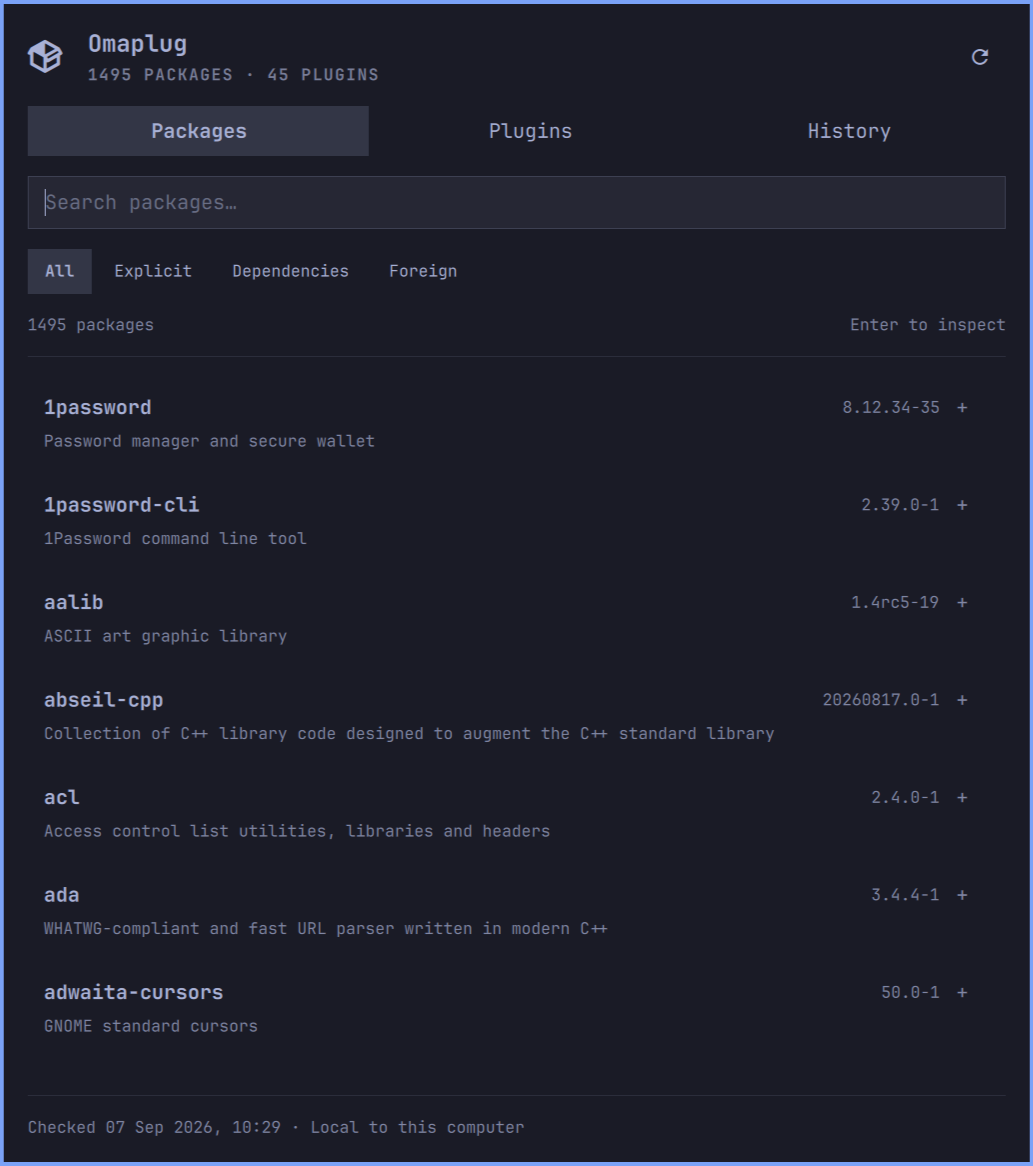
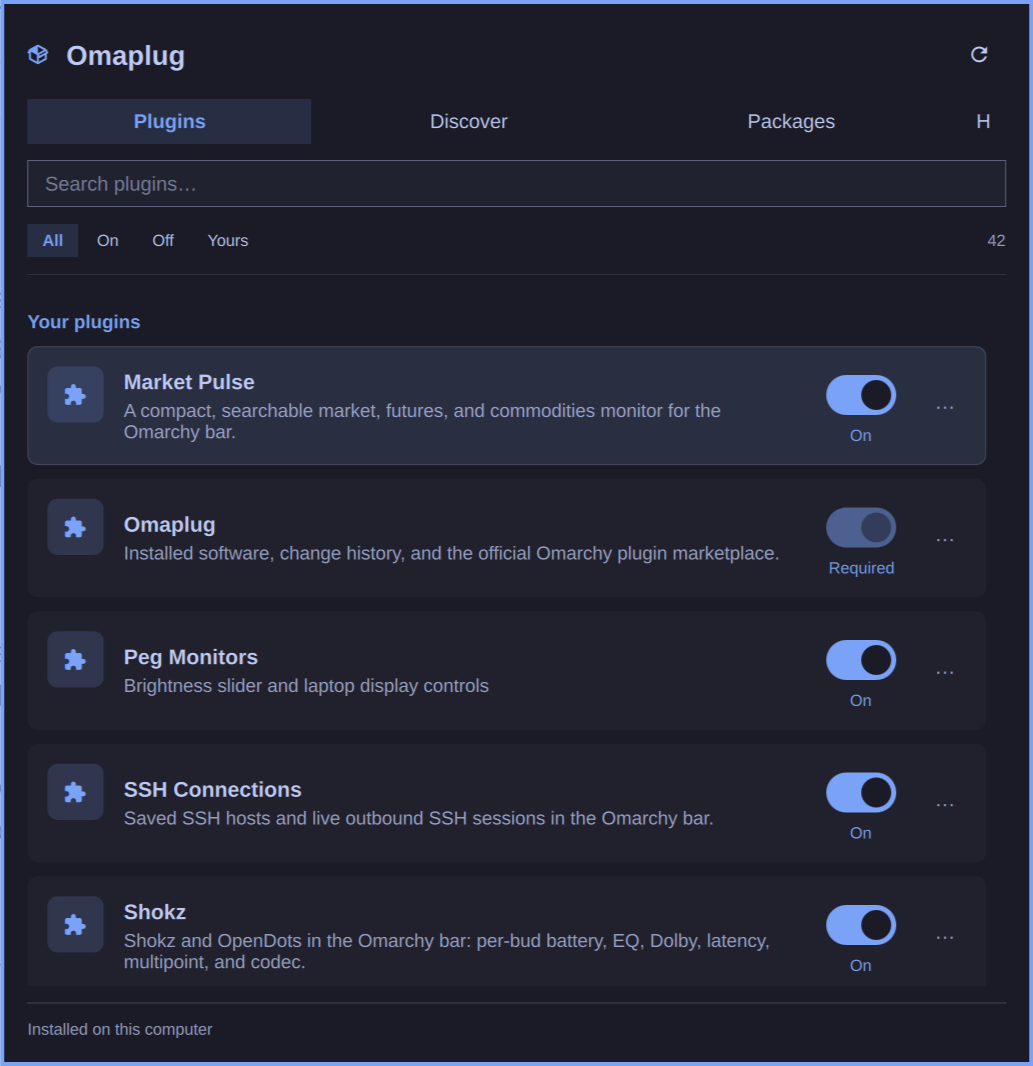
Refresh marketplace preview for Omaplug 1.1.0

diff --git a/README.md b/README.md
@@ -4,7 +4,7 @@ A native Omarchy panel for installed packages, shell plugins, and recent changes
 
 This repository contains the current **1.1.0** community plugin, including its tests, screenshots, and known limitations. It is not an official Omarchy component or an accepted upstream contribution.
 
-![Omaplug package inventory](screenshots/packages-dark.png)
+![Omaplug plugin manager with visible switches](screenshots/plugins-ux-dark.png)
 
 ## Install
 
